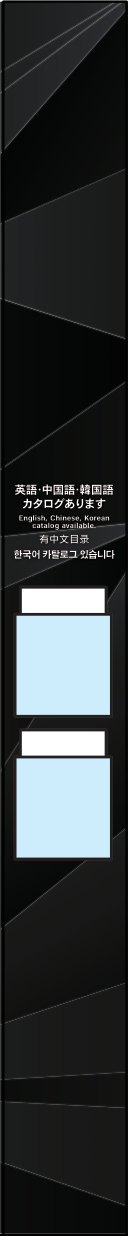
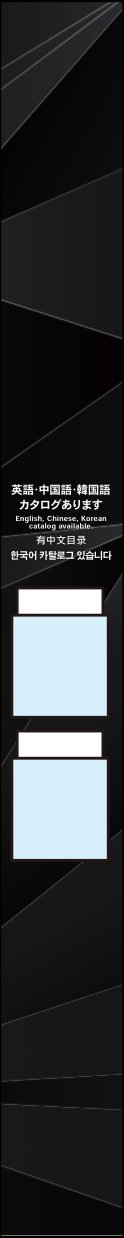
Wall graphics from the wall-design sheet (18 Nov 2026)
All 14 wall faces re-cut from the 18 Nov sheet (new designs on 4, 5, 7,
12 and 13). New item 15: the driving counters' four end faces carry the
white FORUM8 logo on black. The VR360 placement guide (pale box and
centre line) is left off walls 1 and 2.

diff --git a/index.html b/index.html
@@ -279,7 +279,7 @@ const acryl=new THREE.MeshPhysicalMaterial({color:0xffffff,roughness:.05,transmi
 function catalog(x,y,nx,ny){const [X,Z]=W(x,y);const g=new THREE.Group();g.position.set(X+nx*.03,0,Z+ny*.03);g.rotation.y=Math.atan2(nx,ny);scene.add(g);
  [.95,1.3].forEach(cy=>{const c=new THREE.Mesh(new THREE.BoxGeometry(.23,.3,.05),acryl);c.position.y=cy;g.add(c);
   const p=new THREE.Mesh(new THREE.PlaneGeometry(.2,.27),M(0xf3f5f8));p.position.set(0,cy-.01,.005);g.add(p);});}
-// printed wall graphics from the wall-design sheet (12 Nov 2026): one image per face, floor to top, on the face's outer side
+// printed wall graphics from the wall-design sheet (18 Nov 2026): one image per face, floor to top, on the face's outer side
 const artLoader=new THREE.TextureLoader();
 function artTex(file){const t=artLoader.load('walls/'+file+'.jpg');t.colorSpace=THREE.SRGBColorSpace;t.anisotropy=8;return t;}
 function wallArt(file,cx,cy,nx,ny,w,h=H){const p=mesh(new THREE.PlaneGeometry(w,h),new THREE.MeshStandardMaterial({map:artTex(file),roughness:.8}),false);
@@ -416,6 +416,7 @@ function drivingCounter(x1){const x2=x1+600,H1=1.1,b0=x1+32,b1=x2-33,y0=3830,y1=
  [y0+10,4543,5255,y1-10].forEach(y=>box(b1-12,y-10,b1,y+10,0,HB,g));     // front posts
  box(b1-12,y0,b1,y1,HB-.04,.04,g);                                       // front top rail
  box(x1,3799,x2,5999,HB,.1,wood);
+ wallArt('w15',(b0+b1)/2,y0,0,-1,(b1-b0)/1000,HB);wallArt('w15',(b0+b1)/2,y1,0,1,(b1-b0)/1000,HB); // ⑮ end faces: white FORUM8 logo on black
  [4204,4947,5690].forEach(zc=>wheelSet(x2,zc,H1));
  label(['体験コーナー 3セット','Driving corner ×3'],x1+300,4900,1.7);}
 drivingCounter(3750);drivingCounter(5050);
